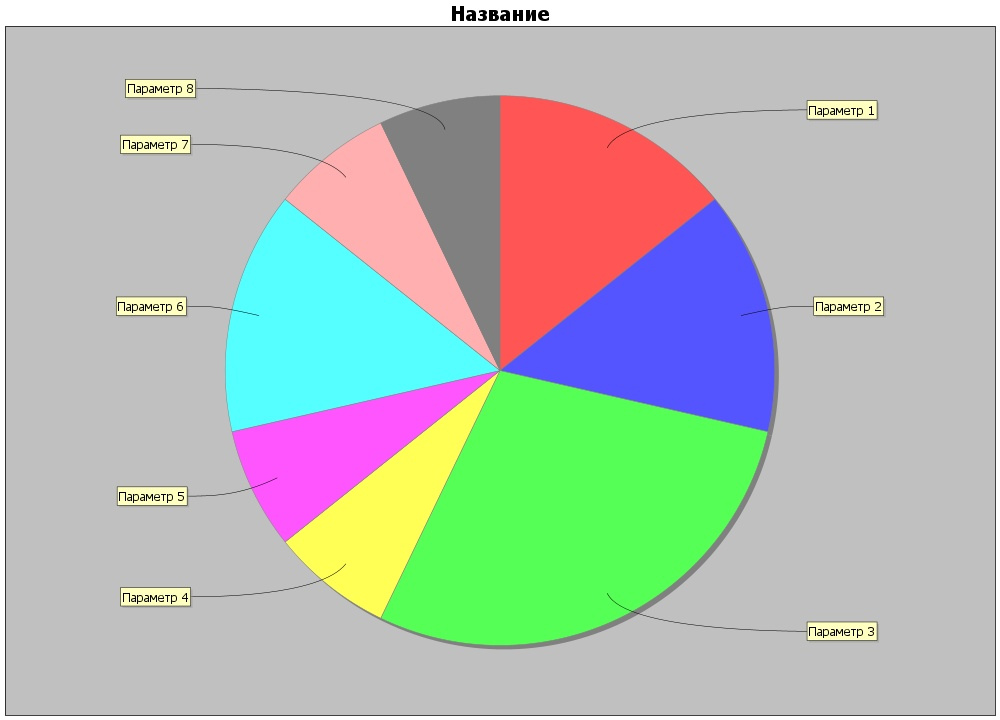
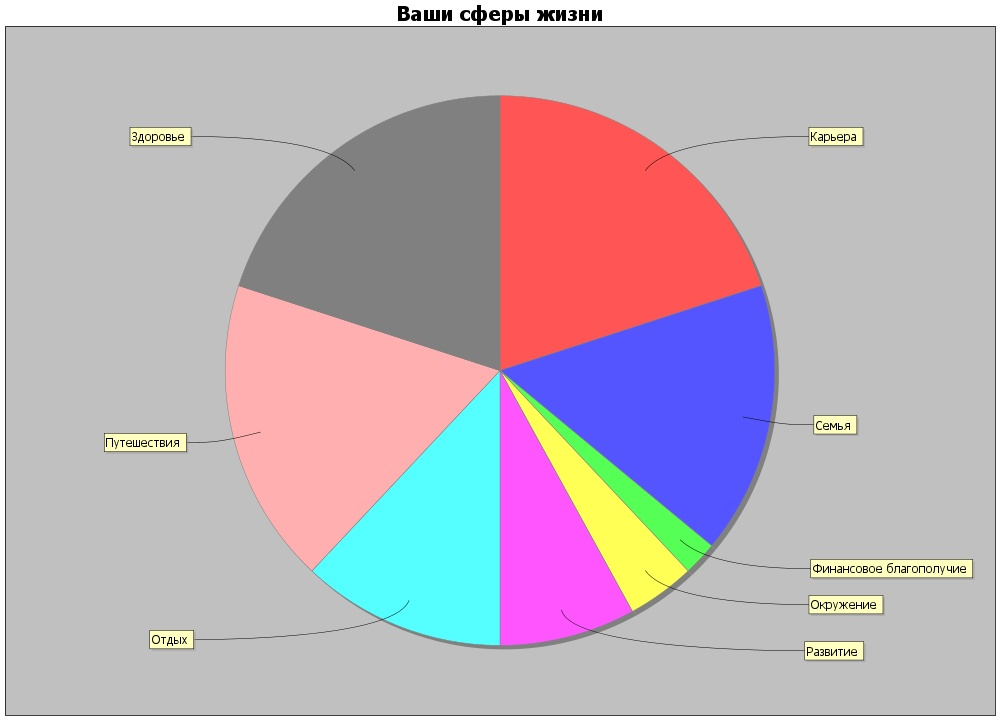
telegram bot complete

diff --git a/src/main/java/telegram/ImageCreate.java b/src/main/java/telegram/ImageCreate.java
@@ -17,18 +17,20 @@ Messages msg = new Messages();
 
         String user = String.valueOf(chatID);
 
-        DefaultPieDataset dataset = new DefaultPieDataset( );
-        dataset.setValue("Параметр 1", new Double( 20 ) );
-        dataset.setValue("Параметр 2", new Double( 20 ) );
-        dataset.setValue("Параметр 3", new Double( 40 ) );
-        dataset.setValue("Параметр 4", new Double( 10 ) );
-        dataset.setValue("Параметр 5", new Double( 10 ) );
-        dataset.setValue("Параметр 6", new Double( 20 ) );
-        dataset.setValue("Параметр 7", new Double( 10 ) );
-        dataset.setValue("Параметр 8", new Double( 10 ) );
+        DefaultPieDataset dataset = new DefaultPieDataset();
+
+        dataset.setValue(titleOfSpheres.get(0), (int) resultsForUser.get(msg.BUTTON_1));
+        dataset.setValue(titleOfSpheres.get(1), (int) resultsForUser.get(msg.BUTTON_2));
+        dataset.setValue(titleOfSpheres.get(2), (int) resultsForUser.get(msg.BUTTON_3));
+        dataset.setValue(titleOfSpheres.get(3), (int) resultsForUser.get(msg.BUTTON_4));
+        dataset.setValue(titleOfSpheres.get(4), (int) resultsForUser.get(msg.BUTTON_5));
+        dataset.setValue(titleOfSpheres.get(5), (int) resultsForUser.get(msg.BUTTON_6));
+        dataset.setValue(titleOfSpheres.get(6), (int) resultsForUser.get(msg.BUTTON_7));
+        dataset.setValue(titleOfSpheres.get(7), (int) resultsForUser.get(msg.BUTTON_8));
+
 
         JFreeChart chart = ChartFactory.createPieChart(
-                "Название",   // chart title
+                "Ваши сферы жизни",   // chart title
                 dataset,          // data
                 false,             // include legend
                 false,
